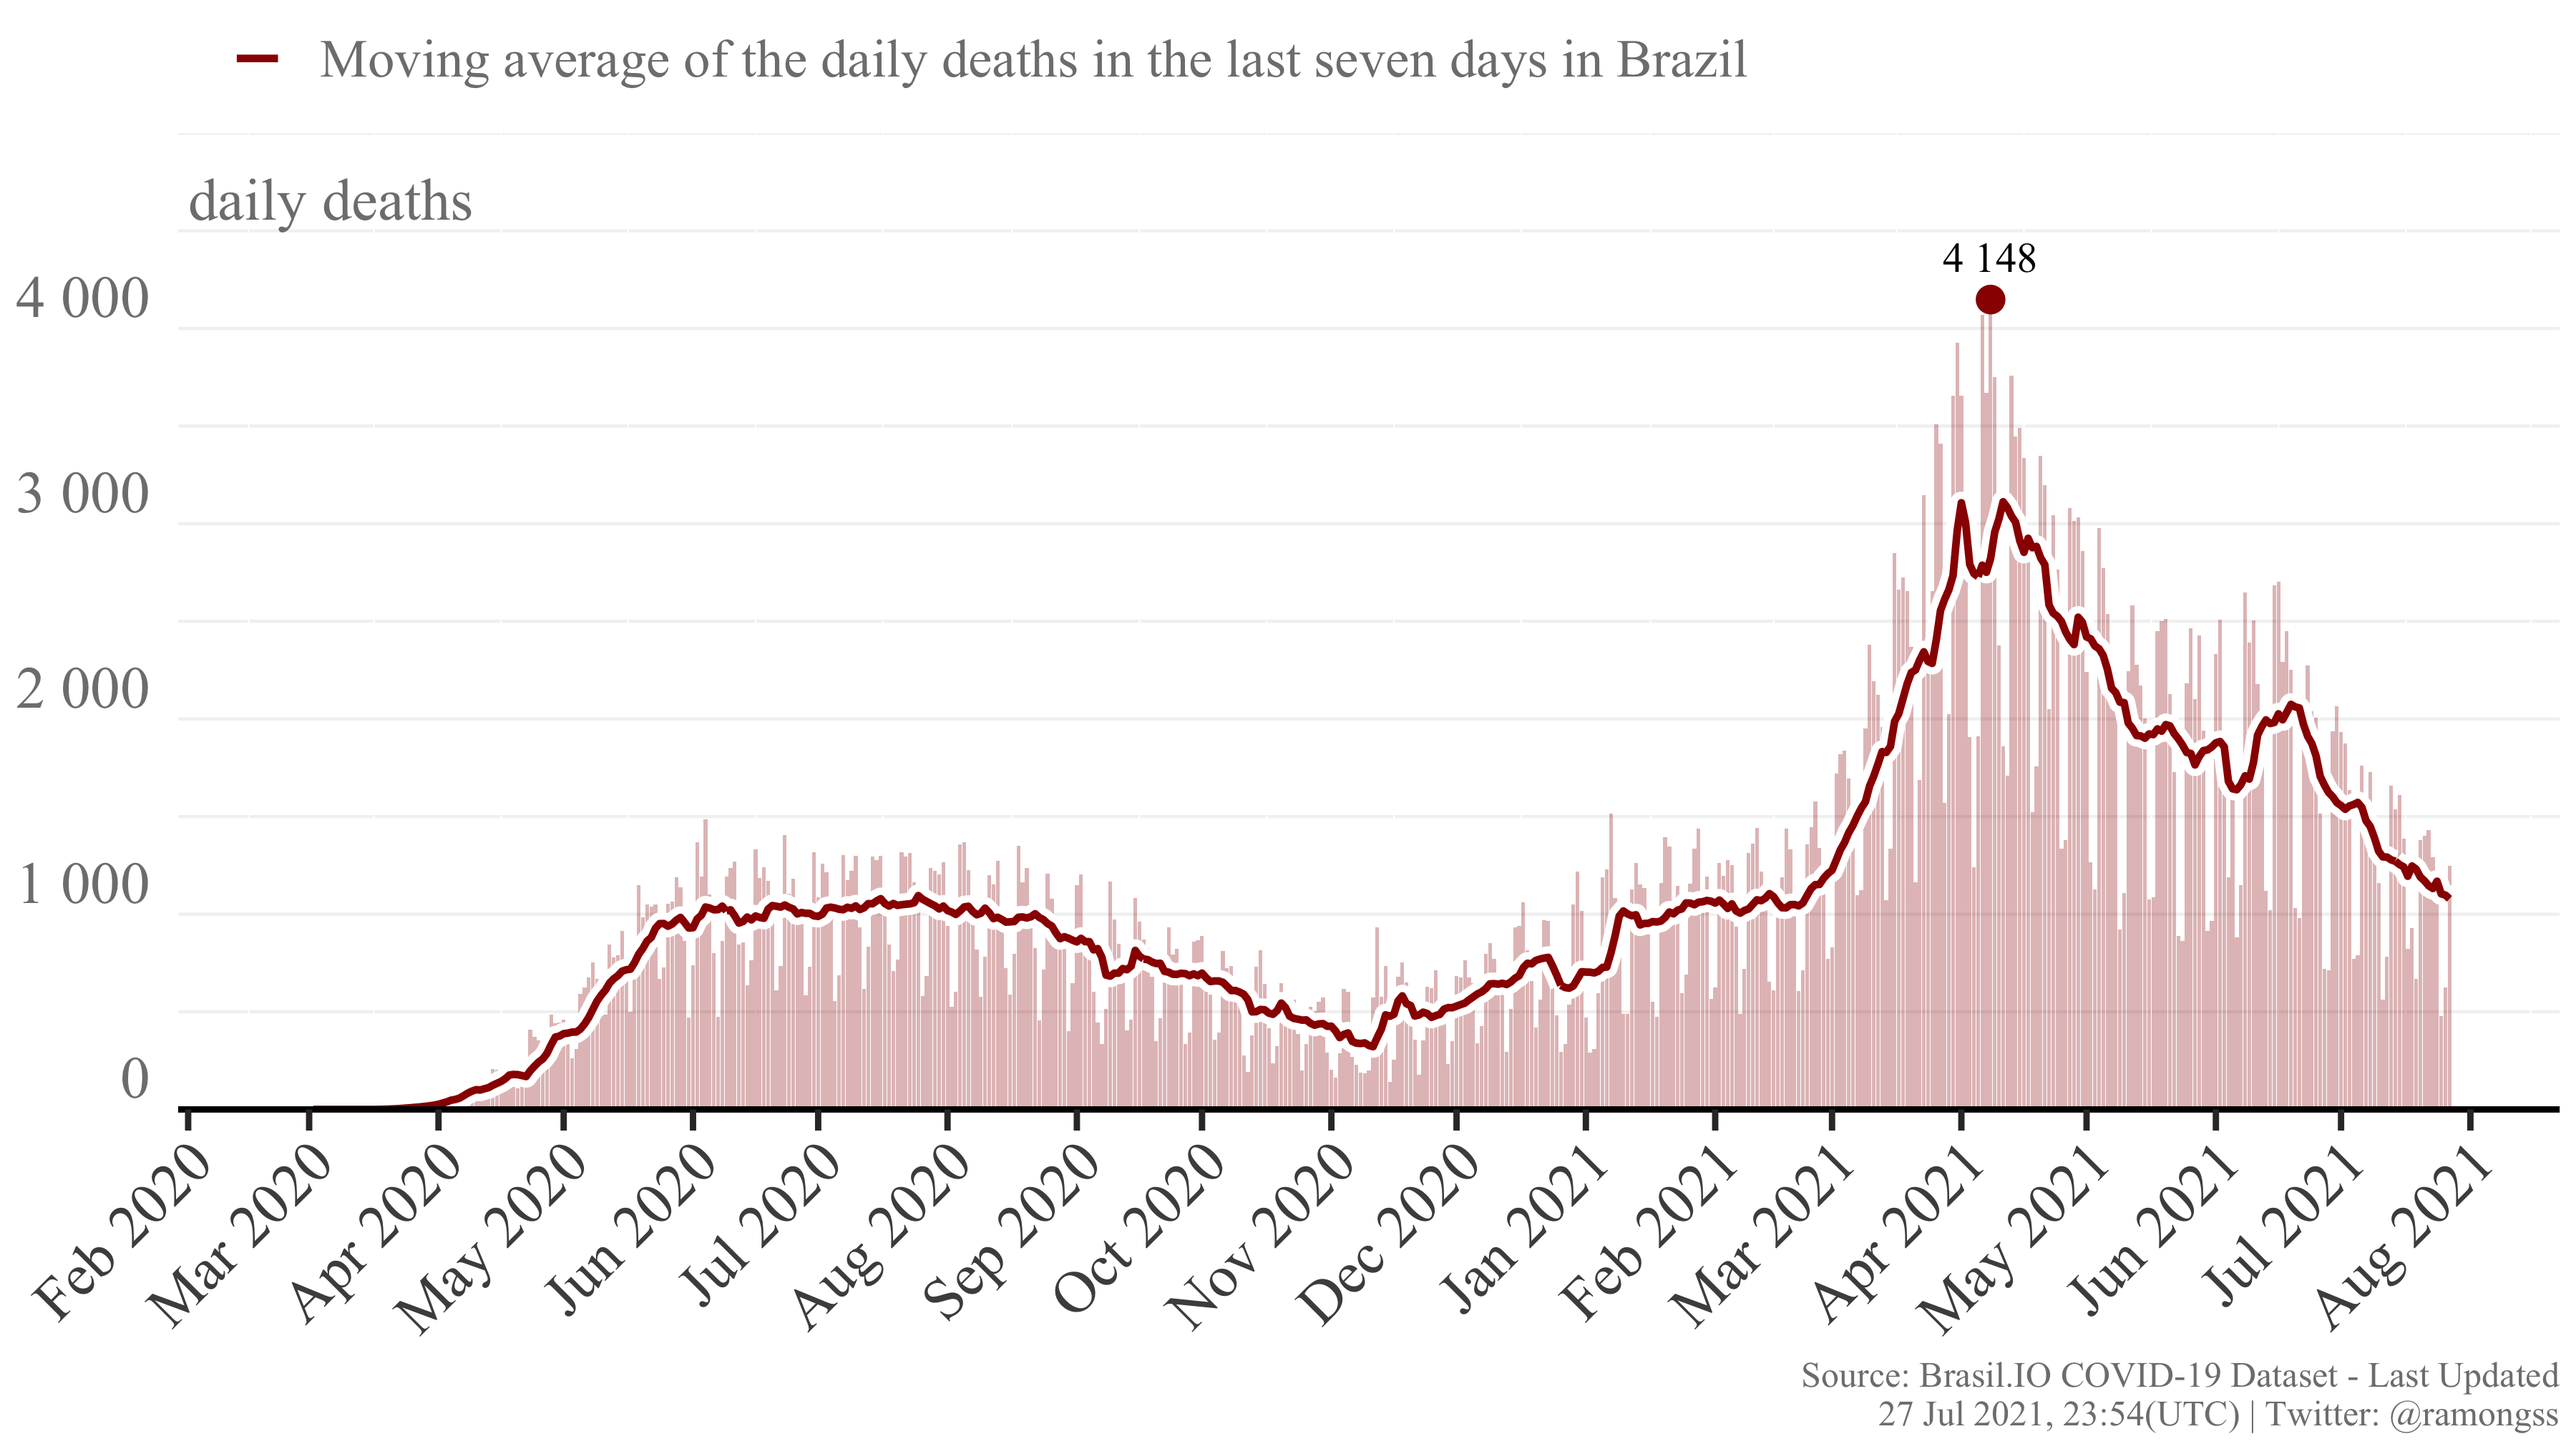
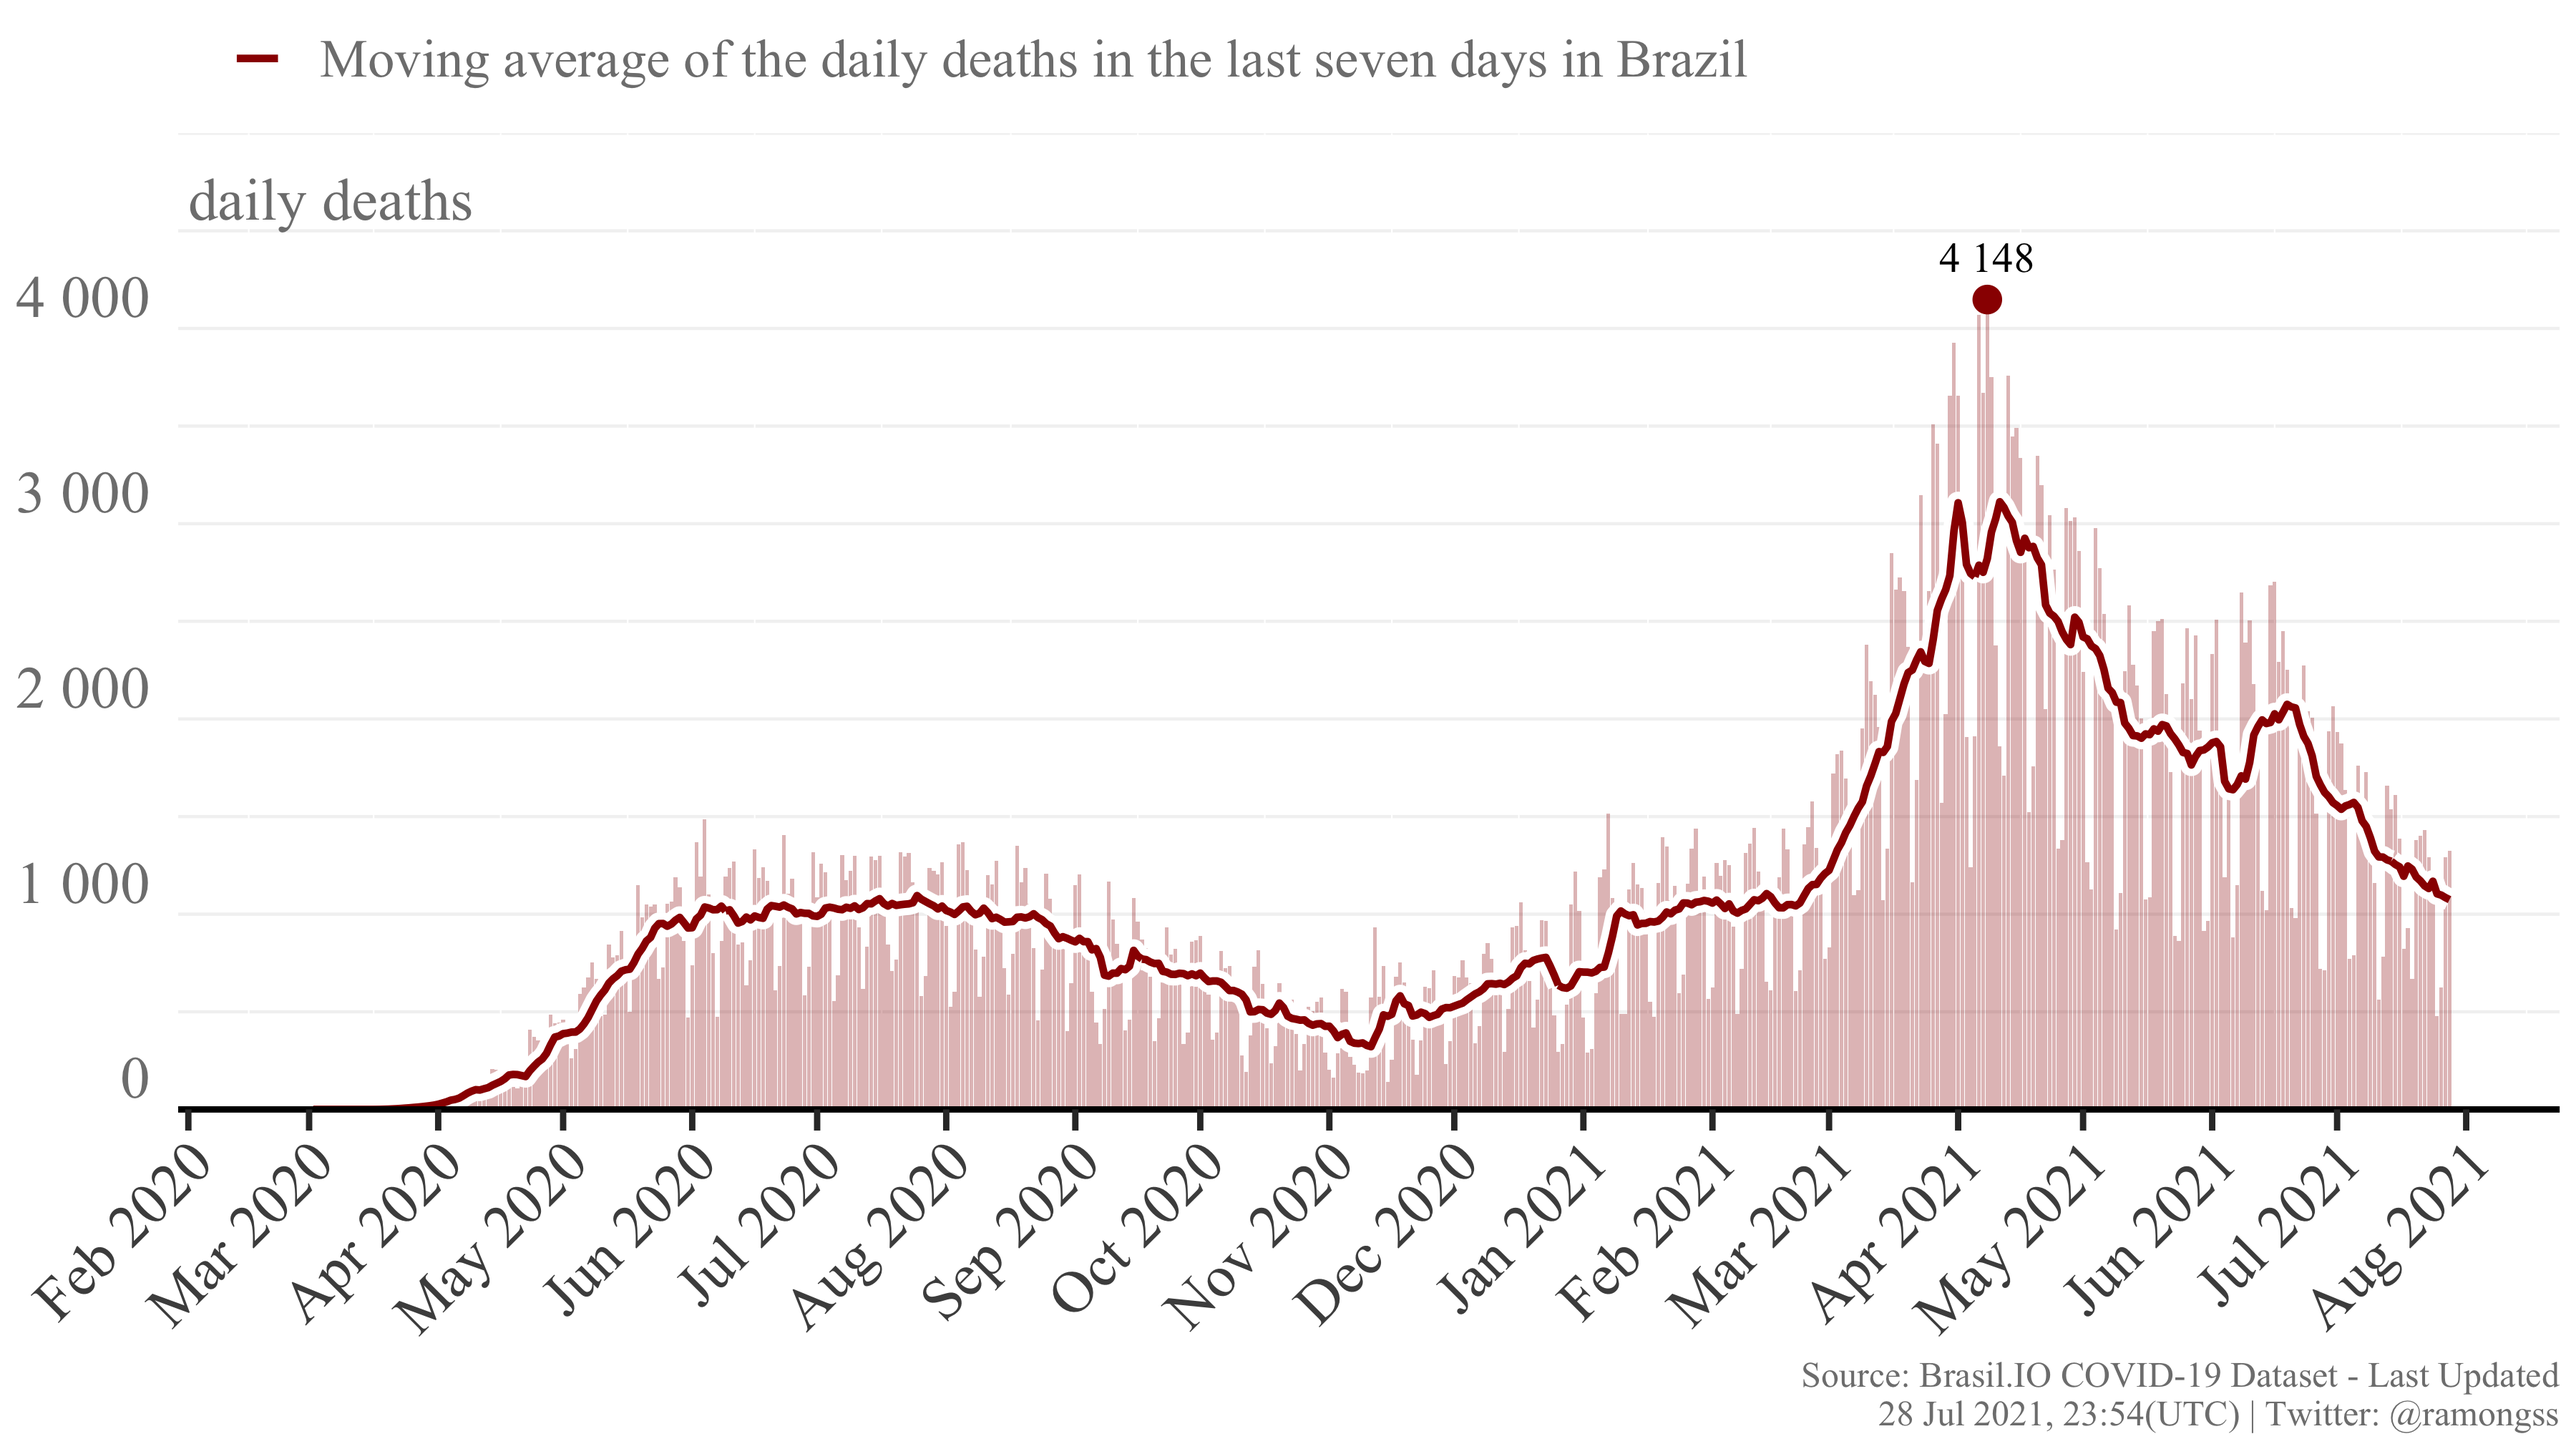
Re-build README.Rmd

diff --git a/README.md b/README.md
@@ -27,8 +27,8 @@ download_brasilio_table <- function(dataset = "covid19", table_name){
 
 ## COVID-19 Confirmed cases
 
-Currently, Brazil has a total of **19,755,541** confirmed cases at **27
-Jul, 2021**, with **40,822** new confirmed cases. The daily maximum
+Currently, Brazil has a total of **19,803,834** confirmed cases at **28
+Jul, 2021**, with **45,524** new confirmed cases. The daily maximum
 incidence was **124,248** confirmed cases at **22 Jun, 2021**. Here
 follows the Figure showing the confirmed case incidence as the bars, and
 the line as the moving average of the last 7 days.
@@ -37,8 +37,8 @@ the line as the moving average of the last 7 days.
 
 ## COVID-19 Deaths
 
-Currently, Brazil has a total of **552,084** deaths at **27 Jul, 2021**,
-with **1,246** new deaths. The daily maximum deaths incidence was
+Currently, Brazil has a total of **553,453** deaths at **28 Jul, 2021**,
+with **1,325** new deaths. The daily maximum deaths incidence was
 **4,148** deaths at **08 Apr, 2021**. Here follows the Figure showing
 the deaths incidence as the bars, and the line as the moving average of
 the last 7 days.
@@ -49,4 +49,4 @@ the last 7 days.
 
 This page is daily updated automatically using Github Actions.
 
-*Last update: 27 Jul 2021, 23:54 (UTC).*
+*Last update: 28 Jul 2021, 23:54 (UTC).*
